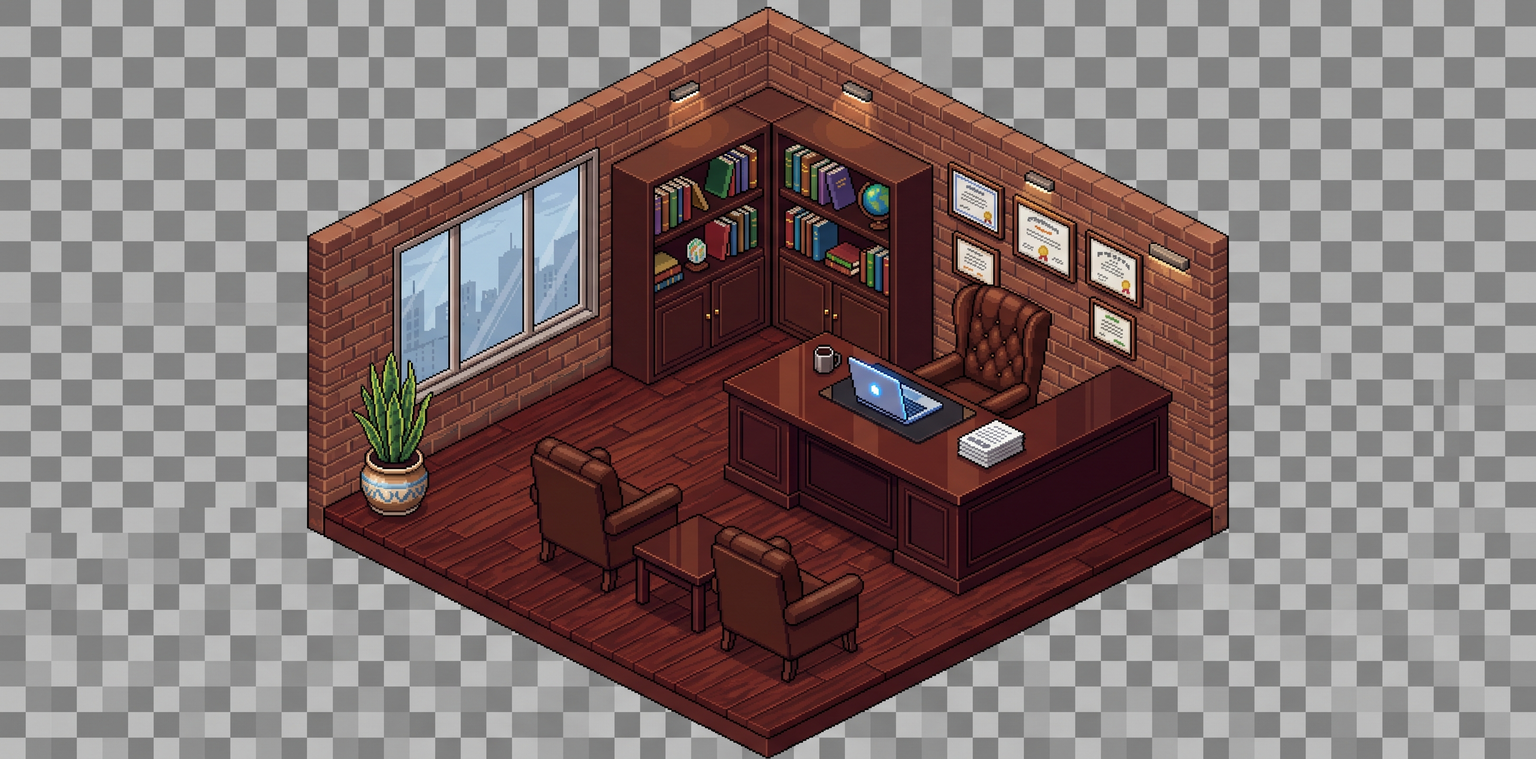
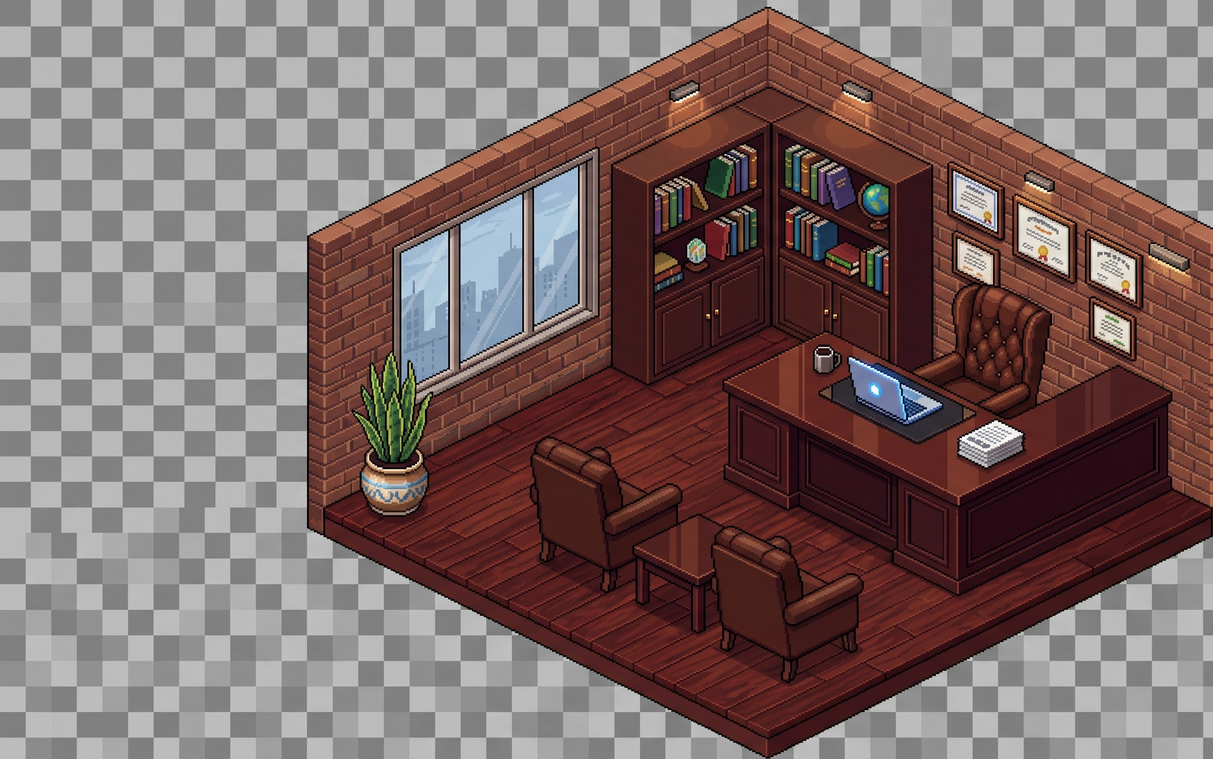
fix: crop corporate gray margin, remap seats, zoom 1.34

diff --git a/src/app/pixel-agents/office-backgrounds.ts b/src/app/pixel-agents/office-backgrounds.ts
@@ -144,23 +144,24 @@ export const officeBackgrounds: OfficeBackground[] = [
   },
 
   // ─── CORPORATE EXECUTIVE (isometric, executive desk, leather chairs) ──
+  // Source cropped at x=0.79 (gray factory margin removed): seats remapped
+  // x/0.79, zoom 1.34 keeps on-screen sizes pixel-identical to before.
   {
     id: "corporate-exec",
     name: "Corporate",
     image: "/offices/corporate-exec.jpg",
     perspective: "isometric",
-    aspectRatio: AR,
-    // Zoom hides the wide gray side margins (checker reaches ~17.5%)
-    zoom: 1.7,
+    aspectRatio: 2300 / 1440,
+    zoom: 1.34,
     // Walk line on-screen (0.88 mapped to 109%, invisible before)
     floorY: 0.75,
     spriteScale: 0.9,
     seats: [
       // Behind the executive desk (leather chair)
-      { x: 0.615, y: 0.52, facing: -1 },
+      { x: 0.778, y: 0.52, facing: -1 },
       // Guest chairs (nudged onto chair centers from annotated shot)
-      { x: 0.39, y: 0.74, facing: 1 },
-      { x: 0.50, y: 0.80, facing: -1 },
+      { x: 0.494, y: 0.74, facing: 1 },
+      { x: 0.633, y: 0.80, facing: -1 },
     ],
   },
 
